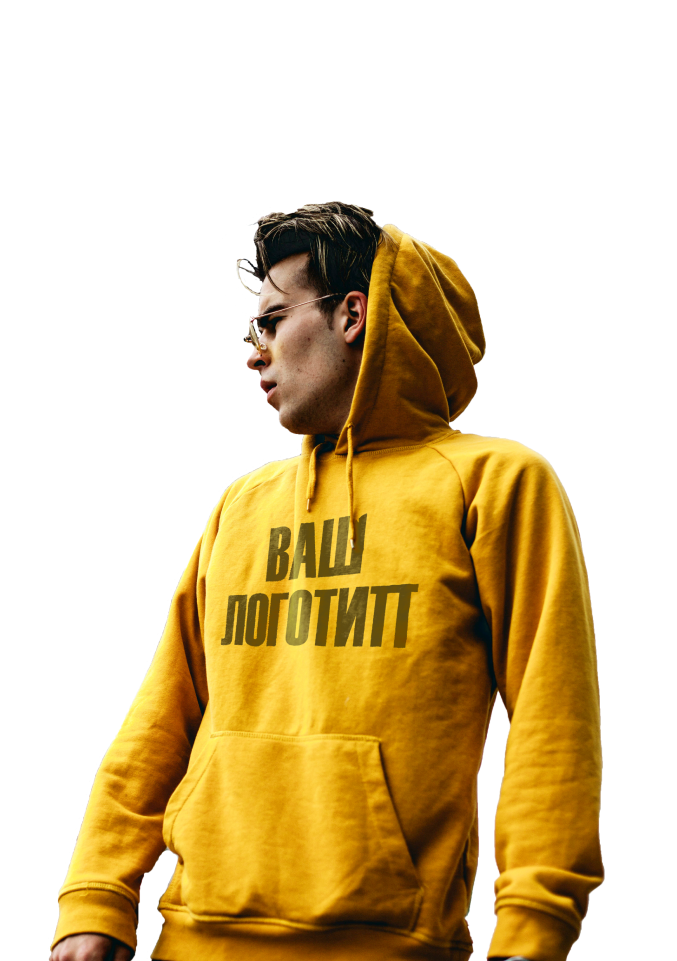
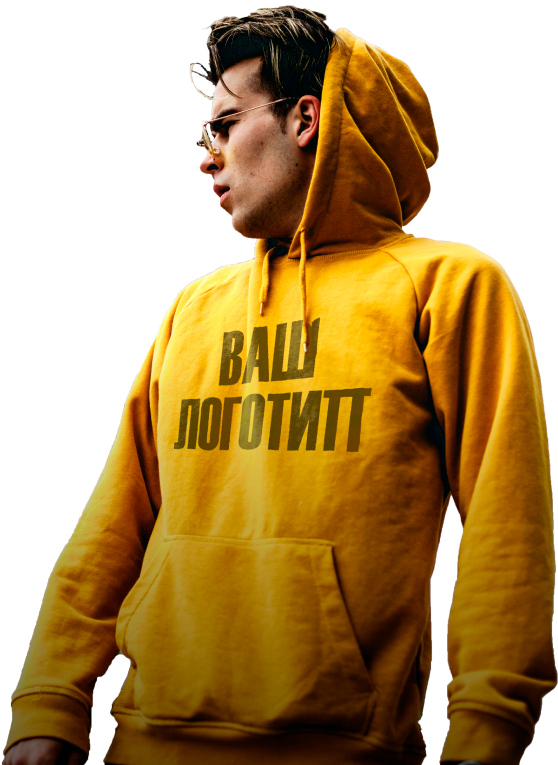
complete MainPage.js and mainPage.scss

diff --git a/src/components/pages/mainPage/MainPage.js b/src/components/pages/mainPage/MainPage.js
@@ -3,30 +3,23 @@ import { Link } from "react-router-dom";
 import Header from "../header/Header";
 import Navbar from "../navbar/Navbar";
 
-import triangle from '../../../resources/triangle.svg';
-import mainPhoto from '../../../resources/main-photo.png';
-
 import "./mainPage.scss"
 
 const MainPage = () => {
  return (
     <section className="main">
-        <Header/>
-        <Navbar/>
-        <div className="main-description">
-            <p className="main-description__title">MANSON <br></br><span>BRANDING</span><p className="filter">BRANDING</p> <br></br>WORDSHOP</p>
-            <p className="main-description__subtitle">Високоякісний друк <br></br> Брендування одягу та аксесуарів</p>
-            <button className='button catalog'>
-                <Link to='/catalog'>КАТАЛОГ</Link>
-            </button>
-        </div>
-        <div className="main-triangle">
-            <div className="triangle">
-                <img src={triangle} alt="triangle"></img>
-            </div>
-        </div>
-        <div className="main-photo">
-            <img src={mainPhoto} alt="main-img"></img>
+        <div className="container">
+            <Header/>
+            <Navbar/>
+            <div className="main-description">
+                <p className="main-description__title">MASONS <br></br><span>BRANDING</span><p className="filter">BRANDING</p> <br></br>WORDSHOP</p>
+                <p className="main-description__subtitle">Високоякісний друк <br></br> Брендування одягу та аксесуарів</p>
+                <button className='button catalog'>
+                    <Link to='/catalog'>КАТАЛОГ</Link>
+                </button>
+            </div>  
+            <div className="triangle"></div>
+            <div className="photo"></div>
         </div>
     </section>
  )

diff --git a/src/components/pages/header/header.scss b/src/components/pages/header/header.scss
@@ -12,55 +12,61 @@
             height: 30px;
             border: 1px solid #FFFFFF;
             border-radius: 15px;
-            background: black;
+            background: rgba(0, 0, 0, 0);
+            color: #FFFFFF;
+            font-family: 'Inter';
+            font-style: normal;
+            font-weight: 400;
+            font-size: 12px;
+            line-height: 15px;
+            padding-left: 32px;
         }
-    }
-    .logo {
-
     }
     .lang-switcher {
         display: flex;
         justify-content: space-evenly;
         margin: 0 33px 0 218px ;
         width: 66px;
+        align-items: center;
         &__item {
-            
+            font-family: 'Inter';
+            font-style: normal;
+            font-weight: 400;
+            font-size: 16px;
+            line-height: 19px;
+            a {
+                color: #FFFFFF;
+            }
         }
     }
 
     .button {
         width: 25px;
         height: 25px;
-        background: black;
+        background: rgba(0, 0, 0, 0);
         padding: 0;
         &__item {
             display: flex;
-            width: 80px;
+            width: auto;
         }
     }
     .basket {
         background-image: url(../../../resources/shopIcon.svg);
         background-repeat: no-repeat;
         background-size: cover;
-        &__link {
-
-        }
+        margin-right: 10px;
     }
     .profile {
         background-image: url(../../../resources/profieIcon.svg);
         background-repeat: no-repeat;
         background-size: cover;
-        &__link {
-            
-        }
+        margin-right: 10px;
     }
     .favorites {
         background-image: url(../../../resources/favoritesIcon.svg);
         background-repeat: no-repeat;
         background-size: cover;
-        &__link {
-            
-        }
+        margin-right: 10px;
     }
 }
 

diff --git a/src/components/pages/header/Header.js b/src/components/pages/header/Header.js
@@ -8,8 +8,7 @@ const Header = () => {
     return (
         <header className="header">
             <form className="search-form">
-                <input className="search-form__input">
-
+                <input className="search-form__input" type="text" name="input" value="Пошук">
                 </input>
             </form>
             <div className="logo">
@@ -17,11 +16,11 @@ const Header = () => {
             </div>
             <ul class="lang-switcher">
                 <li class="lang-switcher__item">
-                    <Link to="/main" class="lang-switcher__link" href="url">ua</Link>
+                    <Link to="/main" class="lang-switcher__link" href="url">UA</Link>
                 </li>
                 <p>|</p>
                 <li class="lang-switcher__item">
-                    <Link to="/main" class="lang-switcher__link" href="url">en</Link>
+                    <Link to="/main" class="lang-switcher__link" href="url">EN</Link>
                 </li>
             </ul>
             <div className="button__item">

diff --git a/src/components/pages/mainPage/mainPage.scss b/src/components/pages/mainPage/mainPage.scss
@@ -1,7 +1,10 @@
 .main {
 	position: relative;
 	background: url('../../../resources/background.png') center center/cover no-repeat;
+	height: 962px;
 	&-description{
+		margin-left: 170px;
+		margin-top: 151px;
 		&__title {
 			width: 542px;
 			height: 234px;
@@ -31,6 +34,7 @@
 			font-size: 24px;
 			line-height: 29px;
 			color: #A8A8A8;
+			margin: 36px 0 46px;
 		}
 	}
 	.catalog {
@@ -47,15 +51,22 @@
 			color: #1C1C1C;
 		}
 	}
-	.triangle {
-		img {
+	.container {
+		.triangle {
 			position: absolute;
+			left: 580px;
+			bottom: 0px;
+			width: 817px;
+			height: 766px;
+			background: linear-gradient(180deg, rgba(0, 0, 0, 0) 57.43%, rgba(0, 0, 0, 0.6) 100%), url('../../../resources/triangle.png') no-repeat;
 		}
-	}
-	
-	&-photo {
-		img {
+		.photo {
 			position: absolute;
+			left: 637px;
+			bottom: 0px;
+			width: 558px;
+			height: 765px;
+			background: linear-gradient(180deg, rgba(0, 0, 0, 0) 57.43%, rgba(0, 0, 0, 0.6) 100%), url('../../../resources/main-photo.png') no-repeat;
 		}
 	}
 }

diff --git a/public/index.html b/public/index.html
@@ -3,6 +3,9 @@
   <head>
     <meta charset="utf-8" />
     <link rel="icon" href="%PUBLIC_URL%/favicon.ico" />
+    <link rel="preconnect" href="https://fonts.googleapis.com">
+    <link rel="preconnect" href="https://fonts.gstatic.com" crossorigin>
+    <link href="https://fonts.googleapis.com/css2?family=Inter&family=Montserrat+Alternates:wght@300&family=Montserrat:wght@300;400;600;700&display=swap" rel="stylesheet">
     <meta name="viewport" content="width=device-width, initial-scale=1" />
     <meta name="theme-color" content="#000000" />
     <meta

diff --git a/src/components/pages/navbar/navbar.scss b/src/components/pages/navbar/navbar.scss
@@ -11,6 +11,7 @@
             font-weight: 300;
             font-size: 18px;
             line-height: 22px;
+            transform: matrix(1, 0, 0, 1, 0, 0);
             a {
                 color: white;
             }

diff --git a/src/style/style.scss b/src/style/style.scss
@@ -44,7 +44,7 @@ a:not([class]) {
 }
 
 a {
-    text-decoration: none;
+  text-decoration: none;
 }
 
 article > * + * {
